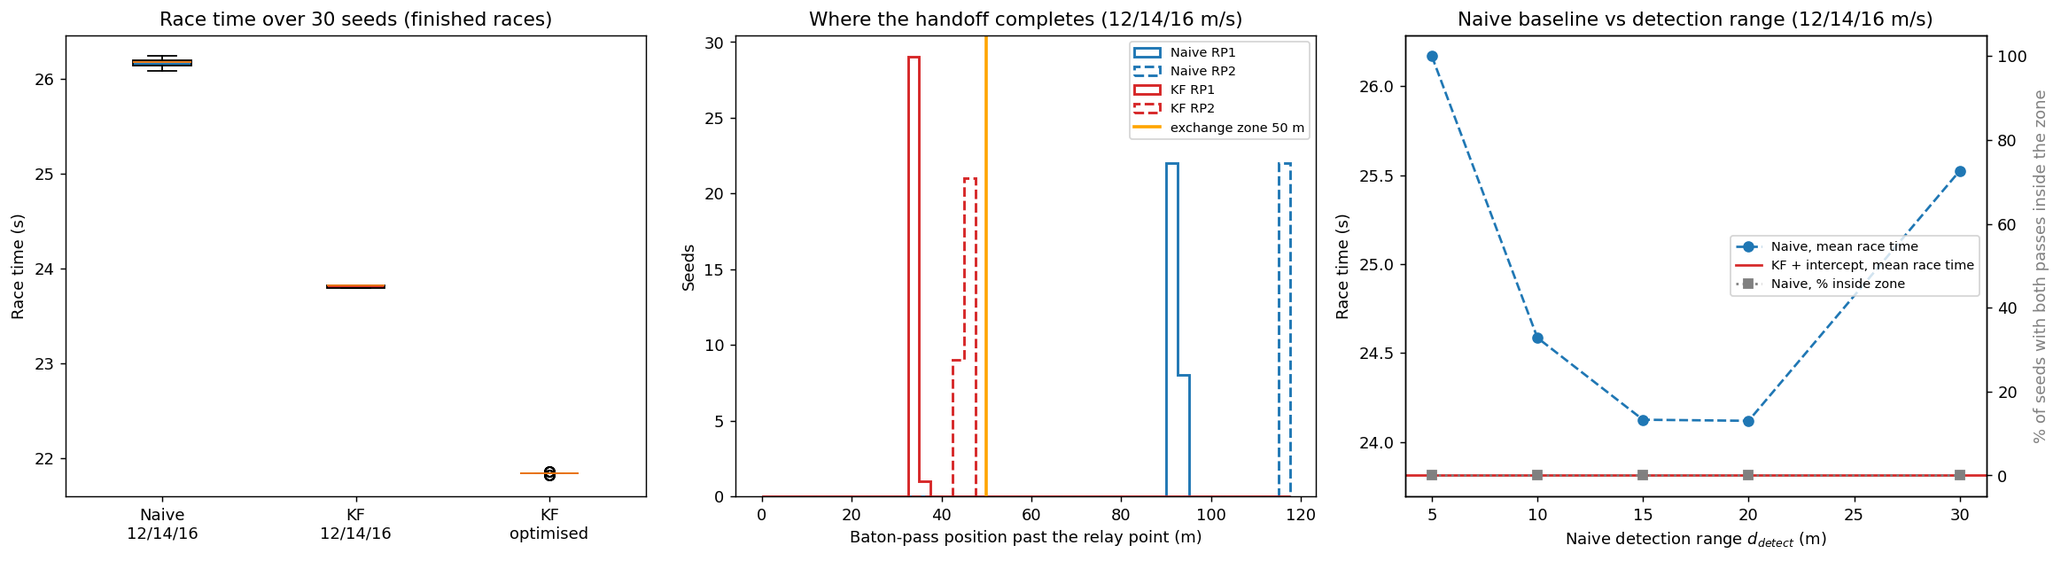
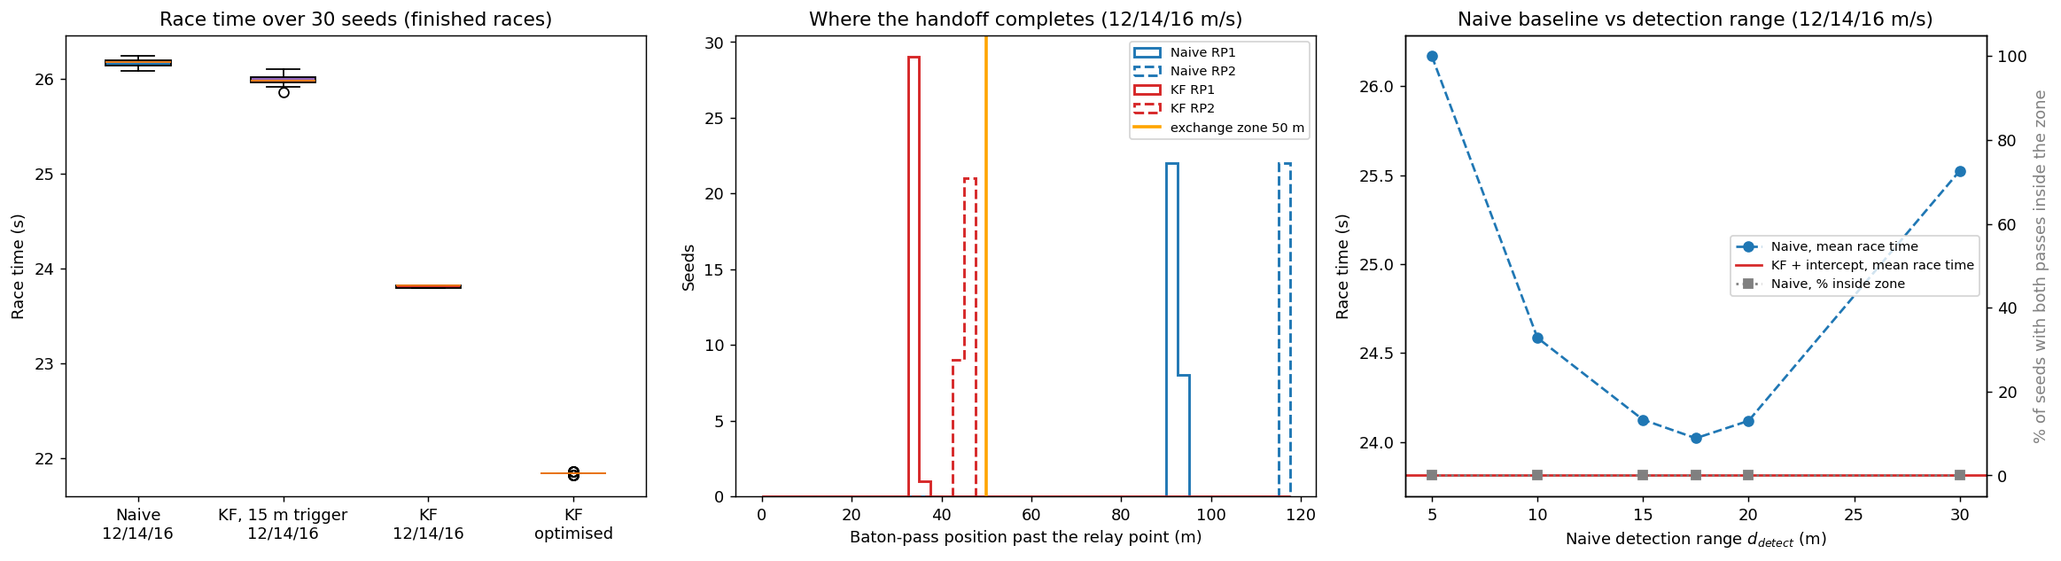
Fix S096 Drone Relay Race: address review follow-ups

diff --git a/src/05_special_entertainment/s096_relay_race.py b/src/05_special_entertainment/s096_relay_race.py
@@ -62,12 +62,16 @@ REPLAN_DT    = 0.1           # s  intercept replanning period
 L_ZONE       = 50.0          # m  handoff must finish within this distance past the relay point
 N_MC         = 30            # Monte Carlo seeds per configuration
 GRID_V       = np.arange(8.0, 20.0 + 1e-9, 2.0)   # speed grid for A and B
-DETECT_SWEEP = [5.0, 10.0, 15.0, 20.0, 30.0]      # naive detection ranges
+DETECT_SWEEP = [5.0, 10.0, 15.0, 17.5, 20.0, 30.0]  # naive detection ranges
+RP_TRIGGER   = 15.0          # m  card: KF approach trigger before the relay point
+A_SWEEP      = [3.0, 4.0, 5.0]          # launch peak-acceleration sensitivity
+L_SWEEP      = [40.0, 50.0, 55.0, 60.0]  # exchange-zone length sensitivity
 STATIONS     = [np.array([0.0, 0.0, Z_RACE]), np.array([100.0, 0.0, Z_RACE + 2.0]),
                 np.array([200.0, 0.0, Z_RACE + 2.0])]
 NAMES        = ['A', 'B', 'C']
 DRONE_COLORS = ['red', 'blue', 'green']
-STRAT_LABELS = {'naive': 'Naive (detect 5 m)', 'kf': 'KF + min-snap intercept'}
+STRAT_LABELS = {'naive': 'Naive (detect 5 m)', 'kf': 'KF + min-snap intercept',
+                'kf15': 'KF, card 15 m trigger'}
 
 OUTPUT_DIR = os.path.normpath(os.path.join(
     os.path.dirname(__file__), '..', '..',
@@ -181,8 +185,15 @@ def hold_cmd(p, v, target):
     return 2.0 * (target - p) - 2.0 * v
 
 
-def run_simulation(strategy, v_cruise=V_CRUISE, seed=0, d_detect=D_DETECT, record=False):
-    """Simulate one race. Returns a result dict (and logs when record=True)."""
+def run_simulation(strategy, v_cruise=V_CRUISE, seed=0, d_detect=D_DETECT, record=False,
+                   a_launch=A_LAUNCH):
+    """Simulate one race. Returns a result dict (and logs when record=True).
+
+    strategy 'kf15' is the KF strategy with the card's approach-zone trigger: the outgoing
+    drone may only launch once the incoming drone is within RP_TRIGGER of the relay point."""
+    trigger = RP_TRIGGER if strategy == 'kf15' else None
+    if strategy == 'kf15':
+        strategy = 'kf'
     rng_dist = np.random.default_rng([seed, 1])     # drone disturbances
     rng_obs = np.random.default_rng([seed, 2])      # KF measurements
     p = np.array([s.copy() for s in STATIONS])
@@ -222,8 +233,9 @@ def run_simulation(strategy, v_cruise=V_CRUISE, seed=0, d_detect=D_DETECT, recor
                     # peak acceleration is A_LAUNCH: it lasts T = 15/8 v / A_LAUNCH and covers
                     # v T / 2, so launch when the predicted along-track gap is v T / 2.
                     v_in = xin[3]
-                    if v_in > 1.0:
-                        tau = SNAP_PEAK * v_in / A_LAUNCH
+                    armed = trigger is None or RELAY_XS[out] - xin[0] <= trigger
+                    if v_in > 1.0 and armed:
+                        tau = SNAP_PEAK * v_in / a_launch
                         if po[0] - xin[0] <= v_in * tau / 2:
                             peak, vxmin = intercept_options(po, vo, xin, np.array([tau]))
                             plan = dict(t0=t, T=tau, t_star=t + tau, last=t,
@@ -301,6 +313,11 @@ def run_simulation(strategy, v_cruise=V_CRUISE, seed=0, d_detect=D_DETECT, recor
 
 def monte_carlo(strategy, v_cruise, n=N_MC, d_detect=D_DETECT):
     rows = [run_simulation(strategy, v_cruise, seed=s, d_detect=d_detect) for s in range(n)]
+    return mc_from_rows(rows)
+
+
+def mc_from_rows(rows):
+    n = len(rows)
     fin = np.array([r['finish'] if r['finish'] is not None else np.nan for r in rows])
     hx = np.full((n, 2), np.nan)
     ht = np.full((n, 2), np.nan)
@@ -312,17 +329,29 @@ def monte_carlo(strategy, v_cruise, n=N_MC, d_detect=D_DETECT):
                 zone_ok=np.array([r['zone_ok'] for r in rows]), hx=hx, ht=ht, rows=rows)
 
 
-def speed_grid():
-    """Seed-0 grid over (v_A, v_B) with v_C = V_CRUISE_MAX for the KF strategy."""
+def speed_grid(a_launch=A_LAUNCH):
+    """Seed-0 grid over (v_A, v_B) with v_C = V_CRUISE_MAX for the KF strategy.
+
+    Returns race times T, the zone flag Z for L_ZONE, and the farther of the two pass
+    offsets past their relay points (X) so other zone lengths can be checked afterwards."""
     T = np.full((len(GRID_V), len(GRID_V)), np.nan)
-    Z = np.zeros_like(T, dtype=bool)
+    X = np.full_like(T, np.nan)
     for i, va in enumerate(GRID_V):
         for j, vb in enumerate(GRID_V):
-            r = run_simulation('kf', [va, vb, V_CRUISE_MAX], seed=0)
+            r = run_simulation('kf', [va, vb, V_CRUISE_MAX], seed=0, a_launch=a_launch)
             if r['success']:
                 T[i, j] = r['finish']
-                Z[i, j] = r['zone_ok']
-    return T, Z
+                X[i, j] = max(h['x'] - RELAY_XS[k + 1] for k, h in enumerate(r['handoffs']))
+    Z = np.isfinite(T) & (np.nan_to_num(X, nan=np.inf) <= L_ZONE)
+    return T, Z, X
+
+
+def best_feasible(T, X, L):
+    feas = np.where(np.isfinite(T) & (np.nan_to_num(X, nan=np.inf) <= L), T, np.inf)
+    if not np.isfinite(feas).any():
+        return None
+    i, j = np.unravel_index(np.argmin(feas), feas.shape)
+    return GRID_V[i], GRID_V[j], T[i, j]
 
 
 # ── Plots ─────────────────────────────────────────────────────────────────────
@@ -398,11 +427,11 @@ def plot_handoff_detail(rk, rn, relay, out_dir):
 def plot_monte_carlo(mc, sweep, out_dir):
     fig, axes = plt.subplots(1, 3, figsize=(18, 5))
     ax = axes[0]
-    keys = [('naive', 'card'), ('kf', 'card'), ('kf', 'opt')]
-    labels = ['Naive\n12/14/16', 'KF\n12/14/16', 'KF\noptimised']
+    keys = [('naive', 'card'), ('kf15', 'card'), ('kf', 'card'), ('kf', 'opt')]
+    labels = ['Naive\n12/14/16', 'KF, 15 m trigger\n12/14/16', 'KF\n12/14/16', 'KF\noptimised']
     data = [mc[k]['finish'][np.isfinite(mc[k]['finish'])] for k in keys]
     bp = ax.boxplot(data, tick_labels=labels, patch_artist=True)
-    for patch, c in zip(bp['boxes'], ['#1f77b4', '#d62728', '#ff9896']):
+    for patch, c in zip(bp['boxes'], ['#1f77b4', '#9467bd', '#d62728', '#ff9896']):
         patch.set_facecolor(c)
     ax.set_ylabel('Race time (s)')
     ax.set_title(f'Race time over {N_MC} seeds (finished races)')
@@ -457,6 +486,25 @@ def plot_speed_grid(T, Z, best, out_dir):
     ax.set_title(f'Speed optimisation (KF strategy, $v_C$ = {V_CRUISE_MAX:.0f} m/s)')
     ax.legend(fontsize=7, loc='upper left')
     path = os.path.join(out_dir, 'speed_optimisation.png')
+    fig.savefig(path, dpi=130, bbox_inches='tight')
+    plt.close(fig)
+    print(f'Saved: {path}')
+
+
+def plot_sensitivity(grids, out_dir):
+    """Fastest feasible race time against zone length for each launch acceleration."""
+    fig, ax = plt.subplots(figsize=(8, 5))
+    Ls = np.arange(30.0, 100.1, 2.5)
+    for al, c in zip(A_SWEEP, ['#1f77b4', '#d62728', '#2ca02c']):
+        Tg, _, Xg = grids[al]
+        ts = [best_feasible(Tg, Xg, L) for L in Ls]
+        ax.step(Ls, [b[2] if b else np.nan for b in ts], where='post', color=c,
+                label=f'a_launch = {al:.0f} m/s$^2$')
+    ax.axvline(L_ZONE, color='orange', ls='--', label=f'baseline zone {L_ZONE:.0f} m')
+    ax.set_xlabel('Exchange-zone length L (m)'); ax.set_ylabel('Fastest feasible race time (s)')
+    ax.set_title('Speed optimum vs zone length and launch acceleration (KF, seed 0, 2 m/s grid)')
+    ax.legend(fontsize=8)
+    path = os.path.join(out_dir, 'zone_sensitivity.png')
     fig.savefig(path, dpi=130, bbox_inches='tight')
     plt.close(fig)
     print(f'Saved: {path}')
@@ -550,16 +598,29 @@ if __name__ == '__main__':
     for vin in (12.0, 14.0, 16.0, 20.0):
         T = SNAP_PEAK * vin / A_LAUNCH
         print(f'Min-snap rest -> {vin:.0f} m/s at peak {A_LAUNCH:.1f} m/s^2: {T:.2f} s, '
-              f'{vin * T / 2:.1f} m (+{vin * T_HANDOFF:.0f} m for the 1 s window)')
+              f'rendezvous {vin * T / 2:.1f} m past the relay point')
+    print('Pass position ~ rendezvous point = SNAP_PEAK v^2 / (2 a_launch); largest incoming '
+          'speed whose pass fits a zone L: v_lim = sqrt(2 a_launch L / SNAP_PEAK):')
+    for al in A_SWEEP:
+        print(f'  a_launch {al:.0f} m/s^2: ' + ', '.join(
+            f'L {L:.0f} m -> v_lim {math.sqrt(2 * al * L / SNAP_PEAK):.2f} m/s' for L in L_SWEEP))
 
     rk = run_simulation('kf', V_CRUISE, seed=0, record=True)
     rn = run_simulation('naive', V_CRUISE, seed=0, record=True)
     print('\nSeed 0, card speeds 12/14/16 m/s:')
     describe('KF + intercept', rk)
     describe('Naive', rn)
+    r15 = run_simulation('kf15', V_CRUISE, seed=0)
+    describe(f'KF, card {RP_TRIGGER:.0f} m trigger', r15)
+    for j, h in enumerate(rk['handoffs']):
+        v_in = V_CRUISE[j]
+        print(f'  KF RP{j + 1}: predicted pass offset SNAP_PEAK v^2/(2 a) = '
+              f'{SNAP_PEAK * v_in ** 2 / (2 * A_LAUNCH):.1f} m, simulated '
+              f'{h["x"] - RELAY_XS[j + 1]:.1f} m')
 
     print('\nSpeed grid (KF, seed 0, v_C = 20 m/s):')
-    T, Z = speed_grid()
+    grids = {al: speed_grid(al) for al in A_SWEEP}
+    T, Z, X = grids[A_LAUNCH]
     feas = np.where(Z, T, np.inf)
     i, j = np.unravel_index(np.argmin(feas), feas.shape)
     best = (GRID_V[i], GRID_V[j])
@@ -576,6 +637,15 @@ if __name__ == '__main__':
     print('  max feasible v_B for each v_A: ' + ', '.join(
         f'{GRID_V[a]:.0f}->{GRID_V[np.where(Z[a])[0]].max():.0f}' if Z[a].any() else
         f'{GRID_V[a]:.0f}->none' for a in range(len(GRID_V))))
+    print('  Sensitivity of the fastest feasible (v_A, v_B) -> time to a_launch and L_ZONE:')
+    for al in A_SWEEP:
+        Tg, _, Xg = grids[al]
+        cells = []
+        for L in L_SWEEP:
+            b = best_feasible(Tg, Xg, L)
+            cells.append(f'L {L:.0f}: ' + (f'({b[0]:.0f}, {b[1]:.0f}) {b[2]:.2f} s' if b
+                                           else 'none'))
+        print(f'    a_launch {al:.0f} m/s^2: ' + '; '.join(cells))
 
     v_opt = [best[0], best[1], V_CRUISE_MAX]
     print(f'\nMonte Carlo ({N_MC} seeds; same disturbance and sensor noise for every strategy):')
@@ -583,8 +653,13 @@ if __name__ == '__main__':
           ('kf', 'card'): monte_carlo('kf', V_CRUISE),
           ('naive', 'opt'): monte_carlo('naive', v_opt),
           ('kf', 'opt'): monte_carlo('kf', v_opt)}
+    mc[('kf15', 'card')] = monte_carlo('kf15', V_CRUISE)
     for (s, sp), m in mc.items():
         mc_line(f'{STRAT_LABELS[s]} @ {"12/14/16" if sp == "card" else "opt"}', m)
+    f15, fk = mc[('kf15', 'card')]['finish'], mc[('kf', 'card')]['finish']
+    print(f'  Card 15 m trigger vs free launch (KF, 12/14/16): mean race time difference '
+          f'{np.nanmean(f15 - fk):+.2f} s; launch gaps (seed 0) '
+          + ', '.join(f'{h["launch_gap"]:.1f} m' for h in r15['handoffs']))
     for sp in ('card', 'opt'):
         fk, fn = mc[('kf', sp)]['finish'], mc[('naive', sp)]['finish']
         fk2, fn2 = np.where(np.isfinite(fk), fk, np.inf), np.where(np.isfinite(fn), fn, np.inf)
@@ -603,7 +678,18 @@ if __name__ == '__main__':
     for d in DETECT_SWEEP:
         sweep[d] = mc[('naive', 'card')] if d == D_DETECT else monte_carlo('naive', V_CRUISE,
                                                                          d_detect=d)
-        mc_line(f'naive d_detect = {d:.0f} m', sweep[d])
+        mc_line(f'naive d_detect = {d:g} m', sweep[d])
+    print('  Both passes inside a zone of L (seeds out of 30) for naive d_detect / KF:')
+    for L in L_SWEEP:
+        cnt = [int(np.sum(np.nanmax(np.nan_to_num(sweep[d]['hx'], nan=np.inf), axis=1) <= L))
+               for d in DETECT_SWEEP]
+        kfc = int(np.sum(np.nanmax(np.nan_to_num(mc[('kf', 'card')]['hx'], nan=np.inf), axis=1)
+                         <= L))
+        print(f'    L {L:.0f} m: ' + ', '.join(f'd {d:g} -> {c}' for d, c in zip(DETECT_SWEEP, cnt))
+              + f'; KF -> {kfc}')
+    beyond = int(np.sum(sweep[D_DETECT]['hx'][:, 1] + RELAY_XS[2] > RELAY_XS[3]))
+    print(f'  Naive d_detect = {D_DETECT:.0f} m: second pass beyond the 300 m finish in {beyond}/'
+          f'{N_MC} seeds (the race then ends at the pass, so leg 3 is never flown)')
 
     print()
     plot_race_3d(rk, rn, OUTPUT_DIR)
@@ -611,4 +697,5 @@ if __name__ == '__main__':
     plot_handoff_detail(rk, rn, 1, OUTPUT_DIR)
     plot_monte_carlo(mc, sweep, OUTPUT_DIR)
     plot_speed_grid(T, Z, best, OUTPUT_DIR)
+    plot_sensitivity(grids, OUTPUT_DIR)
     save_animation(rk, OUTPUT_DIR)

diff --git a/outputs/05_special_entertainment/s096_relay_race/README.md b/outputs/05_special_entertainment/s096_relay_race/README.md
@@ -10,11 +10,12 @@
 
 A baton pass succeeds when the incoming and outgoing drones stay within $d_{handoff} = 0.3$ m and $v_{tol} = 0.5$ m/s of each other for $T_{handoff} = 1$ s continuously. Each outgoing drone tracks the incoming one with a Kalman filter on noisy position measurements ($\sigma_{obs} = 0.05$ m, 50 Hz).
 
-**Objective**: finish the race with both passes successful, in minimum time. Added constraint: each pass must finish within a **50 m exchange zone** past its relay point, so that it does not run into the next leg. Without this zone the speed optimum would trivially be $v_{max}$.
+**Objective**: finish the race with both passes successful, in minimum time. Added constraint: each pass must finish within a **50 m exchange zone** past its relay point, so that it does not run into the next leg. Without this zone the speed optimum would trivially be $v_{max}$. The zone length and the launch acceleration are both added parameters; the results are reported for L = 40–60 m and $a_L$ = 3–5 m/s² as well.
 
 **Strategies** (same drones, disturbances and sensor noise; common random numbers):
 1. **Naive (card)**: the outgoing drone reacts only once the incoming drone is within $d_{detect} = 5$ m. It then matches the incoming velocity at full acceleration and closes the remaining gap with the formation PD. It uses the current KF estimate, with no prediction.
 2. **KF + min-snap intercept** (proposed): the outgoing drone launches at the last moment at which a rest-to-$v_{in}$ min-snap intercept, with peak acceleration $0.8\,a_{max}$, still meets the KF-predicted incoming drone. It replans at 10 Hz and then holds formation with the same PD.
+3. **KF, card 15 m trigger** (variant): the same as 2, but launching is only allowed once the incoming drone is within 15 m of the relay point (the card's approach-zone trigger).
 
 A grid search over $(v_A, v_B)$ then finds the fastest feasible race. $v_C$ is fixed at 20 m/s because nothing comes after C.
 
@@ -42,14 +43,20 @@ $$T = 1.875\,v/a_L, \qquad \text{launch when}\quad x_{out} - \hat x_{in} \le v\,
 
 This is the latest launch for that acceleration, and therefore the earliest rendezvous point. Each 0.1 s replan starts from the current state and the previous reference acceleration and jerk, so the command stays continuous. After $t^*$, a formation PD holds the outgoing drone on the incoming one: $\mathbf u = 8(\hat{\mathbf p}_{in} - \mathbf p) + 4(\hat{\mathbf v}_{in} - \mathbf v)$.
 
-| $v_{in}$ (m/s) | $T$ (s) | Distance to rendezvous | + 1 s pass window |
-|---:|---:|---:|---:|
-| 12 | 5.62 | 33.8 m | 12 m |
-| 14 | 6.56 | 45.9 m | 14 m |
-| 16 | 7.50 | 60.0 m | 16 m |
-| 20 | 9.38 | 93.8 m | 20 m |
+| $v_{in}$ (m/s) | $T$ (s) | Rendezvous past the relay point |
+|---:|---:|---:|
+| 12 | 5.62 | 33.8 m |
+| 14 | 6.56 | 45.9 m |
+| 16 | 7.50 | 60.0 m |
+| 20 | 9.38 | 93.8 m |
 
-So with a 50 m zone, about 14 m/s is the highest incoming speed that can still finish its pass inside the zone.
+The 1 s pass window does **not** add $v \cdot 1$ s downstream. Distance and speed criteria are already met during the last second of the approach, so the window completes at about the rendezvous point: predicted 33.8 m and 45.9 m, simulated 34.5 m and 45.4 m (seed 0).
+
+The pass position is therefore $x_{pass} \approx 1.875\,v^2/(2a_L)$. The highest incoming speed whose pass fits a zone of length $L$ is
+
+$$v_{lim} = \sqrt{2\,a_L\,L/1.875},$$
+
+which is 14.61 m/s for $a_L = 4$ m/s² and $L = 50$ m. The speed "optimum" below is essentially this bound, so it is set by the two added parameters $a_L$ and $L$ (sensitivity below).
 
 ---
 
@@ -59,16 +66,17 @@ So with a 50 m zone, about 14 m/s is the highest incoming speed that can still f
 |-----------|-------|
 | Course / legs / altitude | 300 m / 3 × 100 m / 10 m (B and C wait at 12 m) |
 | $d_{handoff}$ / $v_{tol}$ / $T_{handoff}$ | 0.3 m / 0.5 m/s / 1 s |
-| Naive detection range $d_{detect}$ | 5 m (sweep 5, 10, 15, 20, 30 m) |
+| Naive detection range $d_{detect}$ | 5 m (sweep 5, 10, 15, 17.5, 20, 30 m) |
 | Card cruise speeds $v_A, v_B, v_C$ | 12, 14, 16 m/s |
 | $a_{max}$ / speed limit | 5 m/s² / 20 m/s |
 | Disturbance $\sigma_d$ | 0.1 m/s² |
 | KF $\sigma_a$ / $\sigma_{obs}$ / rate | 0.5 m/s² / 0.05 m / 50 Hz |
 | Tracking / formation PD | $K_p = 8$, $K_d = 4$ (card) |
 | Cruise gain / altitude gain | 5 / 2 (card) |
-| Launch peak acceleration (added) | $0.8\,a_{max}$ = 4 m/s² |
+| Launch peak acceleration (added) | $0.8\,a_{max}$ = 4 m/s² (sensitivity 3, 4, 5 m/s²) |
 | Replanning period (added) | 0.1 s |
-| Exchange zone (added) | 50 m past each relay point |
+| Exchange zone (added) | 50 m past each relay point (sensitivity 40, 50, 55, 60 m) |
+| Card approach trigger | 15 m before the relay point; run as a separate variant ("KF, card 15 m trigger"). The main KF strategy may launch as soon as its timing rule says so |
 | Speed grid (added) | $v_A, v_B \in \{8, 10, \ldots, 20\}$ m/s, $v_C$ = 20 m/s, seed 0 |
 | Monte Carlo | 30 seeds per configuration |
 | $T_{max}$ | 120 s |
@@ -86,7 +94,7 @@ conda activate drones
 python src/05_special_entertainment/s096_relay_race.py
 ```
 
-Runtime: about 4 min, measured while about ten other simulations shared the 12-thread machine, so it is shorter when the script runs alone. The script asserts that the speed stays at or below 20 m/s, nothing moves more than $v_{max}\Delta t$ in one step, and every altitude stays above 0.
+Runtime: 4.1–5.9 min, measured while other simulations shared the machine (the independent review measured 1.5 min before the sensitivity runs were added). The script asserts that the speed stays at or below 20 m/s, nothing moves more than $v_{max}\Delta t$ in one step, and every altitude stays above 0.
 
 ---
 
@@ -99,13 +107,26 @@ Runtime: about 4 min, measured while about ten other simulations shared the 12-t
 | Strategy | Race time | RP1 pass | RP2 pass | Both in zone |
 |---|---:|---|---|:-:|
 | **KF + intercept** | **23.82 s** | 12.40 s at +34.5 m; $\|dp\|$ 0.024 m, $\|dv\|$ 0.028 m/s; launched at a 33.7 m gap | 20.36 s at +45.4 m; 0.046 m, 0.046 m/s; launched at a 45.7 m gap | yes |
-| Naive (5 m) | 26.16 s | 17.26 s at +92.8 m; 0.019 m, 0.093 m/s | 26.16 s at +116.9 m; 0.019 m, 0.125 m/s | no |
+| Naive (5 m) | 26.16 s* | 17.26 s at +92.8 m; 0.019 m, 0.093 m/s | 26.16 s at +116.9 m; 0.019 m, 0.125 m/s | no |
+| KF, card 15 m trigger | 25.92 s* | 14.56 s at +60.4 m; 0.039 m, 0.165 m/s; launched at a 15.1 m gap (peak 7.28 m/s² demanded) | 25.92 s at +118.9 m; 0.033 m, 0.121 m/s; 15.0 m gap (8.18 m/s²) | no |
+
+\* The second pass happens beyond the 300 m finish (x = 316.9 m and 318.9 m). The race counts as finished at the pass instant, so leg 3 is never flown. The naive strategy does this in 30/30 seeds. These times flatter the strategies concerned; a stricter rule (baton must cross 300 m in C's hands) would disqualify them.
 
 ### Speed optimisation (KF, seed 0, $v_C$ = 20 m/s)
 
 Of the 49 grid points, 36 races finished and 16 kept both passes inside the zone. The fastest feasible combination is **$v_A = 14$, $v_B = 14$ → 21.86 s**; the card's speeds (12, 14, 20) give 23.28 s. For every $v_A$ up to 14, the largest feasible $v_B$ is 14; $v_A \ge 16$ is never feasible.
 
 Ignoring the zone, the fastest race is (18, 16) → 19.44 s, with passes far downstream. Races with $v_A$ or $v_B$ = 20 m/s never finish: the next drone is also capped at 20 m/s and can never catch up.
+
+**Sensitivity to the added launch acceleration $a_L$ and zone length $L$** (fastest feasible $(v_A, v_B)$ → race time, seed 0, 2 m/s grid):
+
+| $a_L$ | L = 40 m | L = 50 m | L = 55 m | L = 60 m |
+|---|---|---|---|---|
+| 3 m/s² | (10, 10) 28.00 s | (12, 12) 24.58 s | (12, 16) 22.54 s | (14, 14) 22.00 s |
+| **4 m/s²** | (12, 12) 24.34 s | **(14, 14) 21.86 s** | (14, 16) 20.98 s | (16, 14) 20.70 s |
+| 5 m/s² | (14, 14) 21.72 s | (16, 16) 19.78 s | (16, 16) 19.78 s | (16, 16) 19.78 s |
+
+The predicted $v_{lim}$ values ($a_L$ = 3/4/5 m/s² at L = 50 m: 12.65 / 14.61 / 16.33 m/s) match the grid optima, up to the 2 m/s grid spacing. Over this range the "optimal" race time moves from 28.00 to 19.78 s.
 
 ### Monte Carlo (30 seeds)
 
@@ -115,8 +136,9 @@ Ignoring the zone, the fastest race is (18, 16) → 19.44 s, with passes far dow
 | **KF @ 12/14/16** | 30/30 | **30/30** | **23.81 ± 0.01** | +34.3 ± 0.3 m | +45.2 ± 0.4 m |
 | Naive @ optimum (14/14/20) | 0/30 | 0/30 | — | +117.3 ± 0.5 m | never |
 | **KF @ optimum (14/14/20)** | 30/30 | 30/30 | **21.84 ± 0.01** | +45.1 ± 0.4 m | +45.1 ± 0.4 m |
+| KF, card 15 m trigger @ 12/14/16 | 30/30 | 0/30 | 25.99 ± 0.05* | +60.6 ± 0.5 m | +119.9 ± 0.7 m |
 
-At the card's speeds, KF was faster than naive in **30/30** seeds, by a mean of 2.36 s. At the optimum, KF was faster in 30/30 seeds; naive never finished, because its first pass happens past C's position and C never detects B within 5 m. Over all KF passes at 12/14/16, $|dp| \le 0.071$ m and $|dv| \le 0.230$ m/s.
+At the card's speeds, KF was faster than naive in **30/30** seeds, by a mean of 2.36 s. With the card's 15 m approach trigger, the KF strategy can only launch 15 m before the relay point, much later than its timing rule wants (33.7 m and 45.7 m). It then demands 7–8 m/s², saturates at 5 m/s², and is +2.18 s slower on average, with both passes outside the zone. At the optimum, KF was faster in 30/30 seeds; naive never finished, because its first pass happens past C's position and C never detects B within 5 m. Over all KF passes at 12/14/16, $|dp| \le 0.071$ m and $|dv| \le 0.230$ m/s.
 
 **Naive detection-range sweep** (12/14/16 m/s, 30 seeds):
 
@@ -125,14 +147,25 @@ At the card's speeds, KF was faster than naive in **30/30** seeds, by a mean of 
 | 5 m | 26.17 ± 0.03 | +92.1 m | +117.1 m | 0/30 |
 | 10 m | 24.59 ± 0.04 | +57.2 m | +100.7 m | 0/30 |
 | 15 m | 24.12 ± 0.03 | +41.5 m | +70.9 m | 0/30 |
+| 17.5 m | 24.02 ± 0.00 | +42.4 m | +58.4 m | 0/30 |
 | 20 m | 24.12 ± 0.01 | +55.7 m | +51.5 m | 0/30 |
 | 30 m | 25.52 ± 0.19 | +93.1 m | +107.9 m | 0/30 |
+
+**Zone verdict against zone length** (seeds out of 30 with both passes inside L):
+
+| L | Naive d = 5 / 10 / 15 / 17.5 / 20 / 30 m | KF |
+|---|---|---:|
+| 40 m | 0 / 0 / 0 / 0 / 0 / 0 | 0 |
+| 50 m | 0 / 0 / 0 / 0 / 0 / 0 | 30 |
+| 55 m | 0 / 0 / 0 / 0 / 2 / 0 | 30 |
+| 60 m | 0 / 0 / 0 / 30 / 30 / 0 | 30 |
 
 **Key findings**:
 
 - **The card's expectations hold for the KF strategy**: both passes succeed, the pass errors are far inside the tolerances (≤ 0.071 m, ≤ 0.230 m/s), and the race takes 23.81 s against the ≤ 60 s target. The naive strategy also completes its passes, but at about +92 and +117 m past the relay points, well outside any reasonable exchange zone.
-- **The gain comes from timing, not from the KF alone.** Both strategies use the same KF. The difference is *when* the outgoing drone leaves. A tuned "check mark" (naive with $d_{detect}$ = 15–20 m) gets within 0.31 s of the KF time (24.12 vs 23.81 s). It still never keeps both passes inside 50 m, because a single fixed mark cannot suit both incoming speeds (12 and 14 m/s). The KF rule sets the launch point automatically from the predicted speed: 33.7 m at RP1, 45.7 m at RP2.
-- **The 50 m zone limits the speed.** The min-snap transfer distance grows as $0.234\,v^2$ ($= 1.875/(2 \cdot 4)\cdot v^2$), so 14 m/s is the highest incoming speed that fits in the zone. With $v_A = v_B = 14$ and $v_C = 20$, the race takes 21.84 ± 0.01 s, 2.0 s faster than the card's speeds.
+- **The gain comes from timing, not from the KF alone.** Both strategies use the same KF. The difference is *when* the outgoing drone leaves. A tuned "check mark" (naive with $d_{detect}$ = 17.5 m) gets within 0.21 s of the KF time (24.02 vs 23.81 s). The KF rule sets the launch point automatically from the predicted speed: 33.7 m at RP1, 45.7 m at RP2. Launching that early is essential: with the card's 15 m trigger, the same KF strategy is 2.18 s slower.
+- **The zone verdict (KF 30/30, naive 0/30) depends on the chosen 50 m zone.** The best naive mark misses it by about 8 m (RP2 at +58.4 m). With a 60 m zone, naive at 17.5–20 m keeps both passes inside in 30/30 seeds and is only 0.21–0.31 s slower. With a 40 m zone, neither strategy fits at these speeds.
+- **The "optimal" speeds are just the zone bound.** The pass lands at about $1.875\,v^2/(2a_L)$ past the relay point, so the feasible speed is about $\sqrt{2a_L L/1.875}$: 14.61 m/s for the baseline $a_L$ = 4 m/s² and L = 50 m. This gives (14, 14, 20) → 21.84 ± 0.01 s, 2.0 s faster than the card's speeds. Other choices of the two added parameters move the optimum between (10, 10) at 28.00 s and (16, 16) at 19.78 s (table above), so the optimum is a property of those assumptions, not a universal result.
 - **The results barely change with the noise** (race-time std ≤ 0.03 s for every configuration that finished): with σ = 0.1 m/s² disturbances and 5 cm sensing, the outcome is set by geometry and timing.
 
 ### 3D Trajectories
@@ -159,6 +192,12 @@ Race time over $(v_A, v_B)$. Coloured cells keep both passes inside the zone; ×
 
 ![Speed optimisation](./speed_optimisation.png)
 
+### Zone and Launch-Acceleration Sensitivity
+
+Fastest feasible race time against zone length for each launch acceleration (seed 0, 2 m/s grid):
+
+![Zone sensitivity](./zone_sensitivity.png)
+
 ### Animation
 
 KF strategy, seed 0, top-down view with an altitude strip. The white diamond is the baton. 120 frames at 20 fps (every 10th of 1191 samples).
@@ -174,6 +213,8 @@ KF strategy, seed 0, top-down view with an altitude strip. The white diamond is 
 | Speed optimiser "subject to rendezvous feasibility" | Seed-0 grid over $(v_A, v_B)$, with a 50 m exchange zone as the feasibility limit | Without a zone, every speed up to 20 m/s is feasible and the optimum is trivial. |
 | Naive: card code replans a 0.5 s min-snap toward the measured position every step | Velocity matching at full acceleration, then formation PD, triggered at 5 m | The card's version never moves (see the first row). The replacement is a reasonable reactive baseline, and a detection-range sweep is added. |
 | KF at 20 Hz (text) | 50 Hz (the card's code and parameter table) | The card's code and table use the simulation step. |
+| KF starts (and planning is allowed) when the incoming drone is 15 m before the relay point | The KF runs from the start of each leg, and the main strategy launches when its timing rule fires (33.7 m and 45.7 m gaps). The card's 15 m trigger is run as a separate variant | With the 15 m trigger the KF strategy launches too late: 25.99 ± 0.05 s, both passes outside the zone (0/30), +2.18 s against the free launch. |
+| Race ends when C reaches 300 m | Unchanged, but a second pass beyond 300 m ends the race at the pass | Naive (30/30 seeds) and the 15 m-trigger variant pass beyond the finish, so leg 3 is never flown and their times are flattered; noted in the results. |
 | Incoming drone keeps cruising after the pass; idle drones only hold z | After a pass the incoming drone brakes to a hover; idle drones hold their full station; cruise holds $y$ too | Keeps finished drones out of the race and stops the lateral random walk. |
 | No speed limit | Speed governor at $v_{max}$ = 20 m/s | Physical limit (card's V_CRUISE_MAX). |
 | $T_{total}$ as a sum of legs and handoff times | Time at which C, holding the baton, reaches 300 m | The legs overlap during the passes. |
